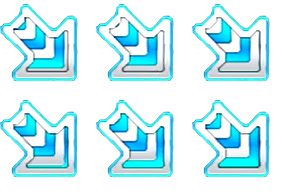
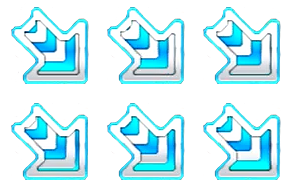
fix: corrige alinhamento das setas direitas da PRIME 2 ALT

diff --git a/index.html b/index.html
@@ -79,7 +79,7 @@
 <body id="activeScreen">
 
   <section class="black_screen arcade-opening" aria-label="Abertura arcade">
-    <p class="arcade-build">PIUWEB PHOENIX 2<br><span data-app-version>v0.8.82</span><br>Developed by Daniel Neitzel</p>
+    <p class="arcade-build">PIUWEB PHOENIX 2<br><span data-app-version>v0.8.83</span><br>Developed by Daniel Neitzel</p>
     <img class="arcade-opening-logo" src="assets/img/mainLogo_phx2.png" alt="Pump It Up Phoenix 2">
     <button type="button" id="arcade-insert" class="arcade-start-pad"><img class="arcade-prompt" src="assets/img/phx2/press_center_step.png" alt="Press Center Step"><img class="arcade-pad" src="assets/img/phx2/step.png" alt=""><strong>TOQUE PARA ATIVAR</strong><span>ou pressione ENTER</span></button>
     <p class="arcade-opening-footer">FREE PLAY · RECORDES LOCAIS</p>
@@ -230,7 +230,7 @@
 
     <div class="col-12 d-grid my-4 gap-3">
       <div class="col-12 startGameTitle">
-        <span class="versionCode arcade-build">PIUWEB PHOENIX 2<br><span data-app-version>v0.8.82</span><br>Developed by Daniel Neitzel</span>
+        <span class="versionCode arcade-build">PIUWEB PHOENIX 2<br><span data-app-version>v0.8.83</span><br>Developed by Daniel Neitzel</span>
         <img class="logoTitle arcade-opening-logo" src="assets/img/mainLogo_phx2.png" alt="Pump It Up Phoenix 2">
         <button id="btnModalLogin"
           class="arcade-start-pad" type="button" onclick="PiuOpening.start()">

diff --git a/piured-engine/js/Resources/ResourceManager.js b/piured-engine/js/Resources/ResourceManager.js
@@ -66,7 +66,8 @@ class ResourceManager {
         }
 
         let stepDic = {};
-        const texture=path=>new PNGTexture(path+(noteskinId==='PHOENIX2'?'?v=0.8.58':''));
+        const textureVersion = {'PHOENIX2': '0.8.58', 'PUMP-PRIME2-ALT': '0.8.83'}[noteskinId];
+        const texture = path => new PNGTexture(path + (textureVersion ? '?v=' + textureVersion : ''));
         // StepNotes
 
         stepDic['SDL'] = texture(noteskinPath + '/DownLeft TapNote 3x2.PNG');

diff --git a/localStage.html b/localStage.html
@@ -86,7 +86,7 @@
   <script src="piured-engine/js/Resources/Textures/PNGTexture.js"></script>
 
 
-  <script src="piured-engine/js/Resources/ResourceManager.js?v=0.8.82"></script>
+  <script src="piured-engine/js/Resources/ResourceManager.js?v=0.8.83"></script>
 
   <script src="piured-engine/js/GameObjects/GameObject.js"></script>
 

diff --git a/scripts/import-pump-noteskins.py b/scripts/import-pump-noteskins.py
@@ -8,6 +8,9 @@ ROOT = Path(__file__).resolve().parents[1]
 SOURCE = ROOT / 'assets/img/pump'
 DIRECTIONS = ('DownLeft', 'UpLeft', 'Center', 'UpRight', 'DownRight')
 MIRRORED = {'UpRight': 'UpLeft', 'DownRight': 'DownLeft'}
+# Match the visible bounds of the right taps to their mirrored left taps.
+# The hold bodies and caps already use the correct horizontal anchors.
+PRIME2_ALT_TAP_OFFSETS = {'UpRight': (3, -1), 'DownRight': (11, 3)}
 PACKS = {
     'PUMP-PRIME2-ALT': ('prime_2', 'PRIME 2 ALT', False),
     'PUMP-HNS1': ('hns_1', 'HNS 1', True),
@@ -55,6 +58,15 @@ def atlas(images, columns, rows):
     return result
 
 
+def shift_frames(images, offset):
+    shifted = []
+    for image in images:
+        frame = Image.new('RGBA', image.size)
+        frame.paste(image, offset)
+        shifted.append(frame)
+    return shifted
+
+
 def square(image):
     if image.height == image.width:
         return image
@@ -78,6 +90,8 @@ def convert(name, mirror):
         taps = frames(find(source, f'{tap_direction} Tap Note'))
         if tap_direction != direction:
             taps = [ImageOps.mirror(tap) for tap in taps]
+        if name == 'prime_2' and direction in PRIME2_ALT_TAP_OFFSETS:
+            taps = shift_frames(taps, PRIME2_ALT_TAP_OFFSETS[direction])
         textures[f'{direction} TapNote 3x2.PNG'] = atlas(sample(taps, 6), 3, 2)
         bodies = frames(find(source, f'{direction} Hold Body Active'))
         caps = frames(find(source, f'{direction} Hold BottomCap Active'))
